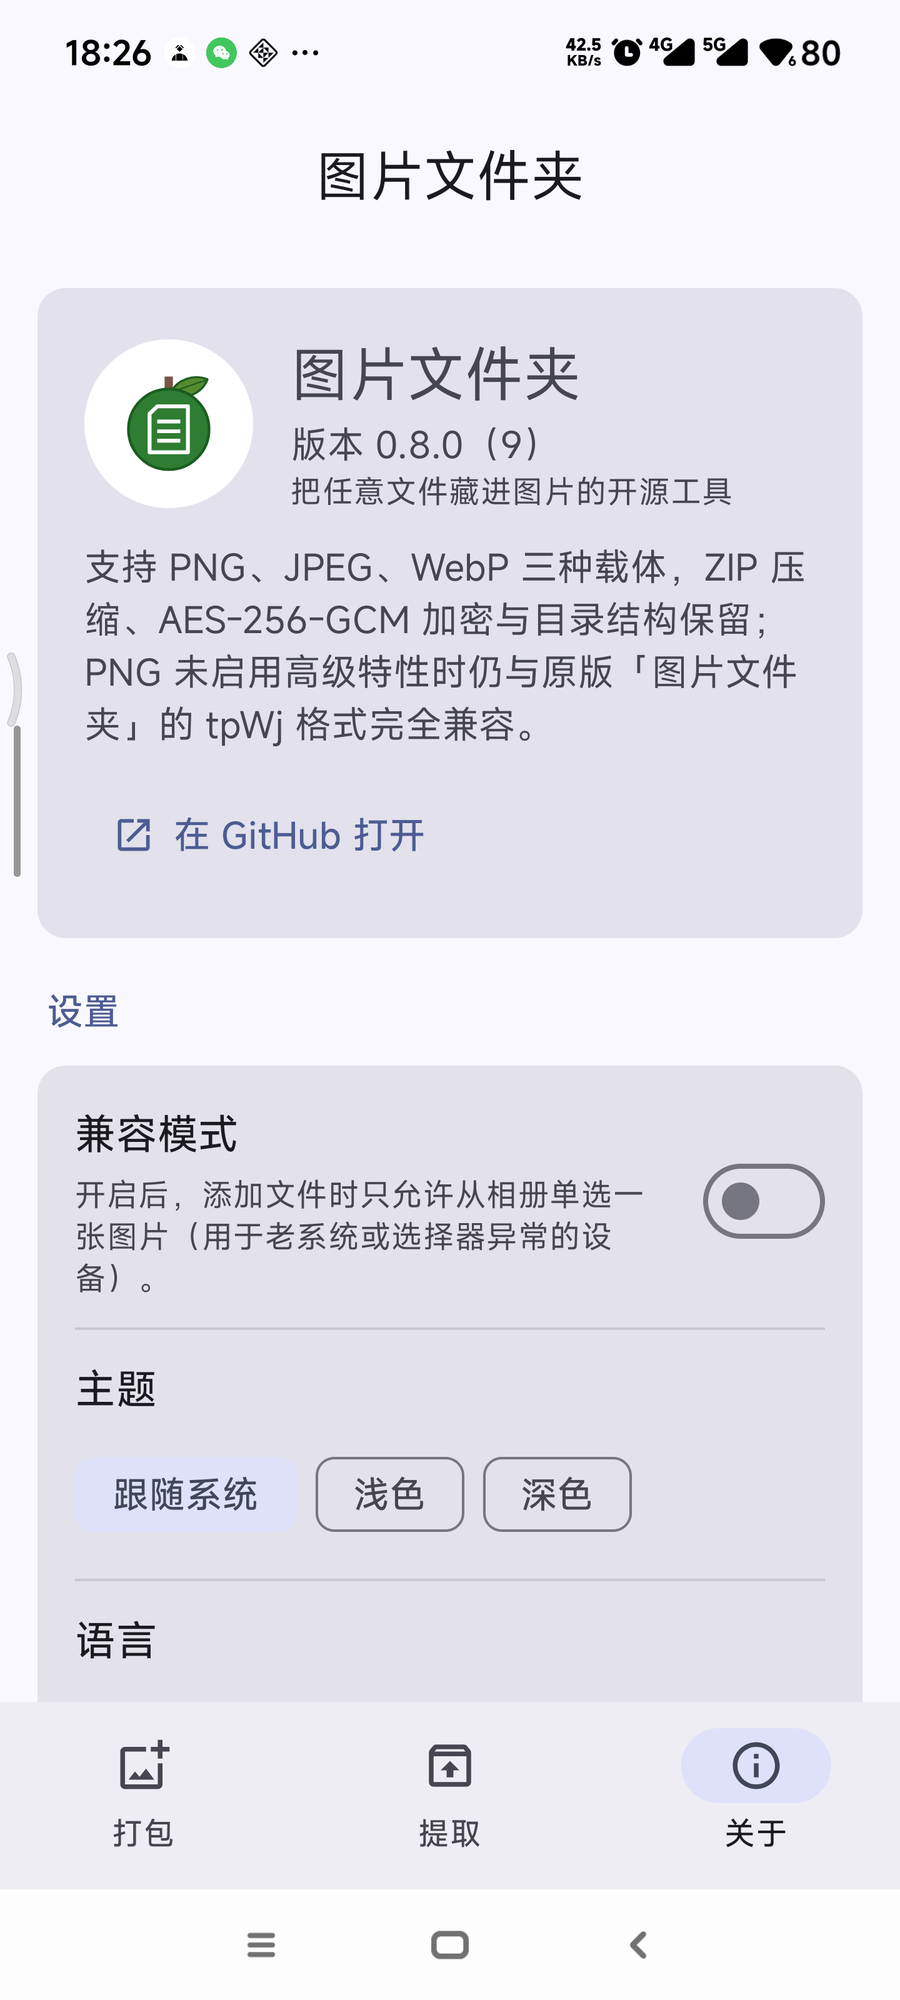
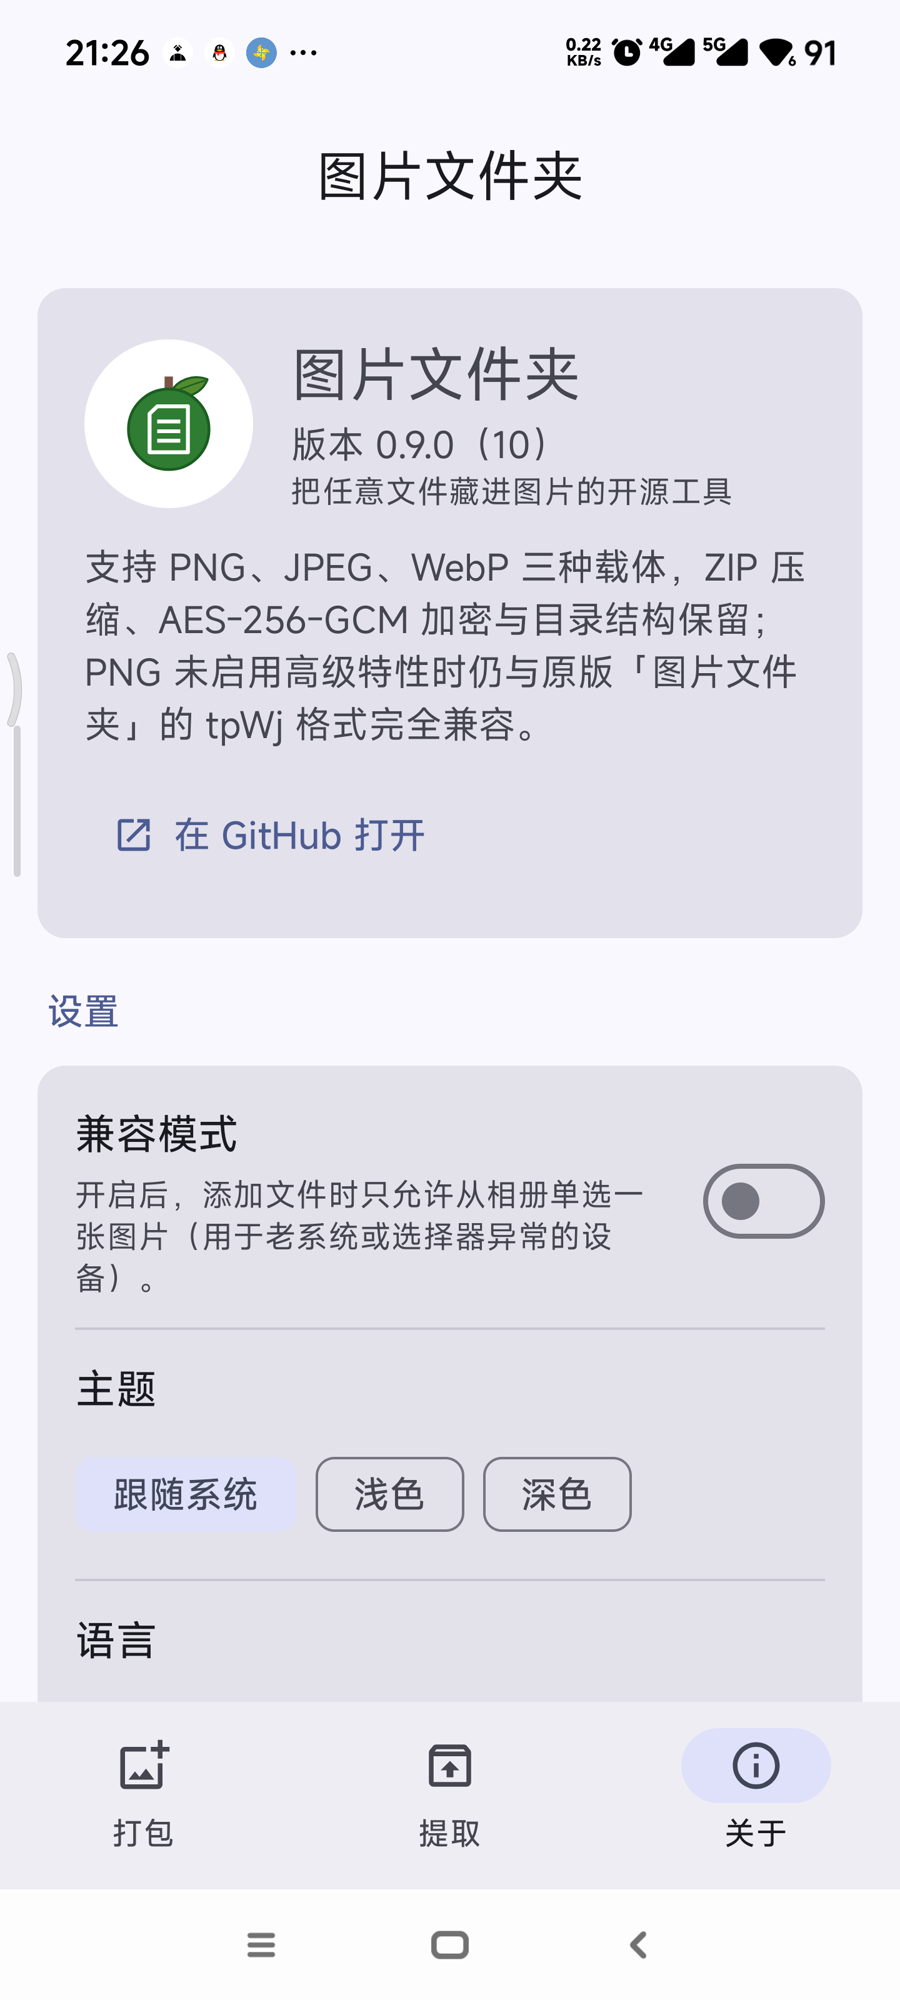
docs: update v0.9.0 version and About screenshot

diff --git a/README.md b/README.md
@@ -6,7 +6,7 @@ An Android tool that hides any file inside PNG, JPEG or WebP images. The UI is b
 
 > An independent open-source reimplementation of the discontinued Image Folder app. All code and assets were rewritten; it contains no code or resources from the original app.
 >
-> Current version: **v0.8.0** · [Changelog](CHANGELOG.md)
+> Current version: **v0.9.0** · [Changelog](CHANGELOG.md)
 
 <p align="center">
   <img src="docs/screenshots/screen-pack.png" width="24%" />

diff --git a/README.zh-CN.md b/README.zh-CN.md
@@ -6,7 +6,7 @@
 
 > 本项目是针对已停止维护的原应用「图片文件夹」的独立开源重实现。代码与素材全部重写，不包含原应用的任何代码或资源。
 >
-> 当前版本：**v0.8.0** · [更新日志](CHANGELOG.md)
+> 当前版本：**v0.9.0** · [更新日志](CHANGELOG.md)
 
 <p align="center">
   <img src="docs/screenshots/screen-pack.png" width="24%" />
